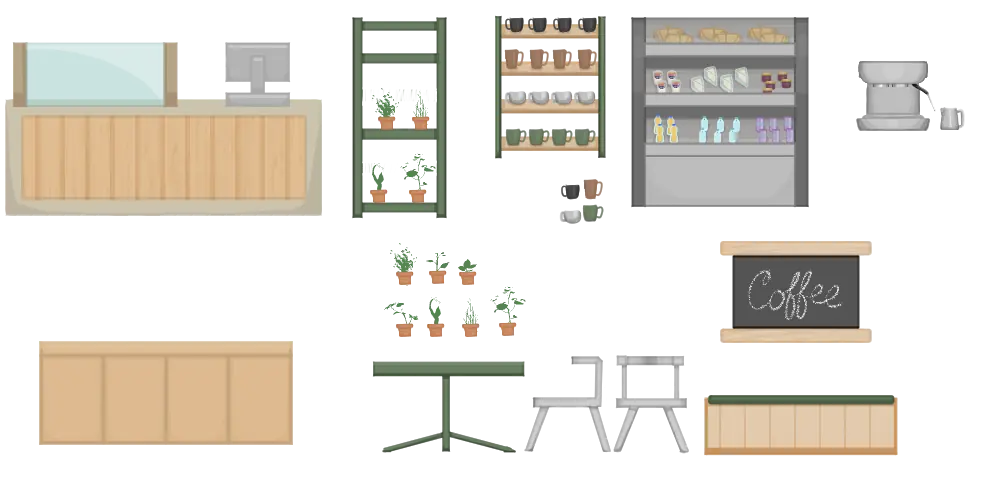
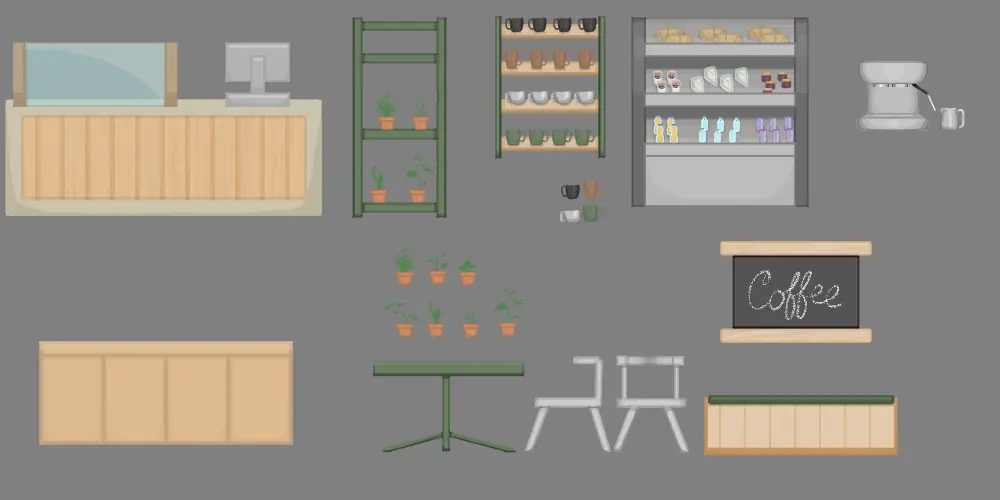
Put transparent artwork on a mid-gray background
The web copies of the To Village Mato storefront, interior, farm and
band spreads and CESR's Devil are flattened onto #808080 (matching the
Lost Faith sheets) so dark details don't disappear against the dark
page. Originals keep their transparency. The Maw's annotated mockups
stay on dark since their notes are white text, and logos keep their
light/dark panels.

Claude-Session: https://claude.ai/code/session_015M85qnpzJAJ2LutH2Qhey1

diff --git a/projects/_template/index.html b/projects/_template/index.html
@@ -8,7 +8,7 @@
   <link rel="preconnect" href="https://fonts.googleapis.com">
   <link rel="preconnect" href="https://fonts.gstatic.com" crossorigin>
   <link href="https://fonts.googleapis.com/css2?family=DM+Sans:opsz,wght@9..40,400;9..40,500;9..40,700&family=Fraunces:ital,opsz,wght@0,9..144,400;0,9..144,600;1,9..144,400;1,9..144,600&display=swap" rel="stylesheet">
-  <link rel="stylesheet" href="../../css/style.css?v=202610302249">
+  <link rel="stylesheet" href="../../css/style.css?v=202610310514">
 </head>
 <body>
 
@@ -207,6 +207,6 @@
     </div>
   </footer>
 
-  <script src="../../js/main.js?v=202610302249"></script>
+  <script src="../../js/main.js?v=202610310514"></script>
 </body>
 </html>

diff --git a/projects/cesr/index.html b/projects/cesr/index.html
@@ -8,7 +8,7 @@
   <link rel="preconnect" href="https://fonts.googleapis.com">
   <link rel="preconnect" href="https://fonts.gstatic.com" crossorigin>
   <link href="https://fonts.googleapis.com/css2?family=DM+Sans:opsz,wght@9..40,400;9..40,500;9..40,700&family=Fraunces:ital,opsz,wght@0,9..144,400;0,9..144,600;1,9..144,400;1,9..144,600&display=swap" rel="stylesheet">
-  <link rel="stylesheet" href="../../css/style.css?v=202610302249">
+  <link rel="stylesheet" href="../../css/style.css?v=202610310514">
 </head>
 <body>
 
@@ -174,6 +174,6 @@
     </div>
   </footer>
 
-  <script src="../../js/main.js?v=202610302249"></script>
+  <script src="../../js/main.js?v=202610310514"></script>
 </body>
 </html>

diff --git a/projects/endmon/index.html b/projects/endmon/index.html
@@ -8,7 +8,7 @@
   <link rel="preconnect" href="https://fonts.googleapis.com">
   <link rel="preconnect" href="https://fonts.gstatic.com" crossorigin>
   <link href="https://fonts.googleapis.com/css2?family=DM+Sans:opsz,wght@9..40,400;9..40,500;9..40,700&family=Fraunces:ital,opsz,wght@0,9..144,400;0,9..144,600;1,9..144,400;1,9..144,600&display=swap" rel="stylesheet">
-  <link rel="stylesheet" href="../../css/style.css?v=202610302249">
+  <link rel="stylesheet" href="../../css/style.css?v=202610310514">
 </head>
 <body>
 
@@ -122,6 +122,6 @@
     </div>
   </footer>
 
-  <script src="../../js/main.js?v=202610302249"></script>
+  <script src="../../js/main.js?v=202610310514"></script>
 </body>
 </html>

diff --git a/projects/lost-faith/index.html b/projects/lost-faith/index.html
@@ -8,7 +8,7 @@
   <link rel="preconnect" href="https://fonts.googleapis.com">
   <link rel="preconnect" href="https://fonts.gstatic.com" crossorigin>
   <link href="https://fonts.googleapis.com/css2?family=DM+Sans:opsz,wght@9..40,400;9..40,500;9..40,700&family=Fraunces:ital,opsz,wght@0,9..144,400;0,9..144,600;1,9..144,400;1,9..144,600&display=swap" rel="stylesheet">
-  <link rel="stylesheet" href="../../css/style.css?v=202610302249">
+  <link rel="stylesheet" href="../../css/style.css?v=202610310514">
 </head>
 <body>
 
@@ -193,6 +193,6 @@
     </div>
   </footer>
 
-  <script src="../../js/main.js?v=202610302249"></script>
+  <script src="../../js/main.js?v=202610310514"></script>
 </body>
 </html>

diff --git a/projects/monkey-business/index.html b/projects/monkey-business/index.html
@@ -8,7 +8,7 @@
   <link rel="preconnect" href="https://fonts.googleapis.com">
   <link rel="preconnect" href="https://fonts.gstatic.com" crossorigin>
   <link href="https://fonts.googleapis.com/css2?family=DM+Sans:opsz,wght@9..40,400;9..40,500;9..40,700&family=Fraunces:ital,opsz,wght@0,9..144,400;0,9..144,600;1,9..144,400;1,9..144,600&display=swap" rel="stylesheet">
-  <link rel="stylesheet" href="../../css/style.css?v=202610302249">
+  <link rel="stylesheet" href="../../css/style.css?v=202610310514">
 </head>
 <body>
 
@@ -201,6 +201,6 @@
     </div>
   </footer>
 
-  <script src="../../js/main.js?v=202610302249"></script>
+  <script src="../../js/main.js?v=202610310514"></script>
 </body>
 </html>

diff --git a/projects/the-maw/index.html b/projects/the-maw/index.html
@@ -8,7 +8,7 @@
   <link rel="preconnect" href="https://fonts.googleapis.com">
   <link rel="preconnect" href="https://fonts.gstatic.com" crossorigin>
   <link href="https://fonts.googleapis.com/css2?family=DM+Sans:opsz,wght@9..40,400;9..40,500;9..40,700&family=Fraunces:ital,opsz,wght@0,9..144,400;0,9..144,600;1,9..144,400;1,9..144,600&display=swap" rel="stylesheet">
-  <link rel="stylesheet" href="../../css/style.css?v=202610302249">
+  <link rel="stylesheet" href="../../css/style.css?v=202610310514">
 </head>
 <body>
 
@@ -281,6 +281,6 @@
     </div>
   </footer>
 
-  <script src="../../js/main.js?v=202610302249"></script>
+  <script src="../../js/main.js?v=202610310514"></script>
 </body>
 </html>

diff --git a/projects/to-village-mato/index.html b/projects/to-village-mato/index.html
@@ -8,7 +8,7 @@
   <link rel="preconnect" href="https://fonts.googleapis.com">
   <link rel="preconnect" href="https://fonts.gstatic.com" crossorigin>
   <link href="https://fonts.googleapis.com/css2?family=DM+Sans:opsz,wght@9..40,400;9..40,500;9..40,700&family=Fraunces:ital,opsz,wght@0,9..144,400;0,9..144,600;1,9..144,400;1,9..144,600&display=swap" rel="stylesheet">
-  <link rel="stylesheet" href="../../css/style.css?v=202610302249">
+  <link rel="stylesheet" href="../../css/style.css?v=202610310514">
 </head>
 <body>
 
@@ -217,6 +217,6 @@
     </div>
   </footer>
 
-  <script src="../../js/main.js?v=202610302249"></script>
+  <script src="../../js/main.js?v=202610310514"></script>
 </body>
 </html>

diff --git a/about/index.html b/about/index.html
@@ -8,7 +8,7 @@
   <link rel="preconnect" href="https://fonts.googleapis.com">
   <link rel="preconnect" href="https://fonts.gstatic.com" crossorigin>
   <link href="https://fonts.googleapis.com/css2?family=DM+Sans:opsz,wght@9..40,400;9..40,500;9..40,700&family=Fraunces:ital,opsz,wght@0,9..144,400;0,9..144,600;1,9..144,400;1,9..144,600&display=swap" rel="stylesheet">
-  <link rel="stylesheet" href="../css/style.css?v=202610302249">
+  <link rel="stylesheet" href="../css/style.css?v=202610310514">
 </head>
 <body>
 
@@ -180,6 +180,6 @@
     </div>
   </footer>
 
-  <script src="../js/main.js?v=202610302249"></script>
+  <script src="../js/main.js?v=202610310514"></script>
 </body>
 </html>

diff --git a/illustrations/index.html b/illustrations/index.html
@@ -8,7 +8,7 @@
   <link rel="preconnect" href="https://fonts.googleapis.com">
   <link rel="preconnect" href="https://fonts.gstatic.com" crossorigin>
   <link href="https://fonts.googleapis.com/css2?family=DM+Sans:opsz,wght@9..40,400;9..40,500;9..40,700&family=Fraunces:ital,opsz,wght@0,9..144,400;0,9..144,600;1,9..144,400;1,9..144,600&display=swap" rel="stylesheet">
-  <link rel="stylesheet" href="../css/style.css?v=202610302249">
+  <link rel="stylesheet" href="../css/style.css?v=202610310514">
 </head>
 <body>
 
@@ -148,6 +148,6 @@
     </div>
   </footer>
 
-  <script src="../js/main.js?v=202610302249"></script>
+  <script src="../js/main.js?v=202610310514"></script>
 </body>
 </html>

diff --git a/prop-art/index.html b/prop-art/index.html
@@ -8,7 +8,7 @@
   <link rel="preconnect" href="https://fonts.googleapis.com">
   <link rel="preconnect" href="https://fonts.gstatic.com" crossorigin>
   <link href="https://fonts.googleapis.com/css2?family=DM+Sans:opsz,wght@9..40,400;9..40,500;9..40,700&family=Fraunces:ital,opsz,wght@0,9..144,400;0,9..144,600;1,9..144,400;1,9..144,600&display=swap" rel="stylesheet">
-  <link rel="stylesheet" href="../css/style.css?v=202610302249">
+  <link rel="stylesheet" href="../css/style.css?v=202610310514">
 </head>
 <body>
 
@@ -112,6 +112,6 @@
     </div>
   </footer>
 
-  <script src="../js/main.js?v=202610302249"></script>
+  <script src="../js/main.js?v=202610310514"></script>
 </body>
 </html>

diff --git a/ui/index.html b/ui/index.html
@@ -8,7 +8,7 @@
   <link rel="preconnect" href="https://fonts.googleapis.com">
   <link rel="preconnect" href="https://fonts.gstatic.com" crossorigin>
   <link href="https://fonts.googleapis.com/css2?family=DM+Sans:opsz,wght@9..40,400;9..40,500;9..40,700&family=Fraunces:ital,opsz,wght@0,9..144,400;0,9..144,600;1,9..144,400;1,9..144,600&display=swap" rel="stylesheet">
-  <link rel="stylesheet" href="../css/style.css?v=202610302249">
+  <link rel="stylesheet" href="../css/style.css?v=202610310514">
 </head>
 <body>
 
@@ -111,6 +111,6 @@
     </div>
   </footer>
 
-  <script src="../js/main.js?v=202610302249"></script>
+  <script src="../js/main.js?v=202610310514"></script>
 </body>
 </html>

diff --git a/index.html b/index.html
@@ -8,7 +8,7 @@
   <link rel="preconnect" href="https://fonts.googleapis.com">
   <link rel="preconnect" href="https://fonts.gstatic.com" crossorigin>
   <link href="https://fonts.googleapis.com/css2?family=DM+Sans:opsz,wght@9..40,400;9..40,500;9..40,700&family=Fraunces:ital,opsz,wght@0,9..144,400;0,9..144,600;1,9..144,400;1,9..144,600&display=swap" rel="stylesheet">
-  <link rel="stylesheet" href="css/style.css?v=202610302249">
+  <link rel="stylesheet" href="css/style.css?v=202610310514">
 </head>
 <body>
 
@@ -202,6 +202,6 @@
     </div>
   </footer>
 
-  <script src="js/main.js?v=202610302249"></script>
+  <script src="js/main.js?v=202610310514"></script>
 </body>
 </html>
